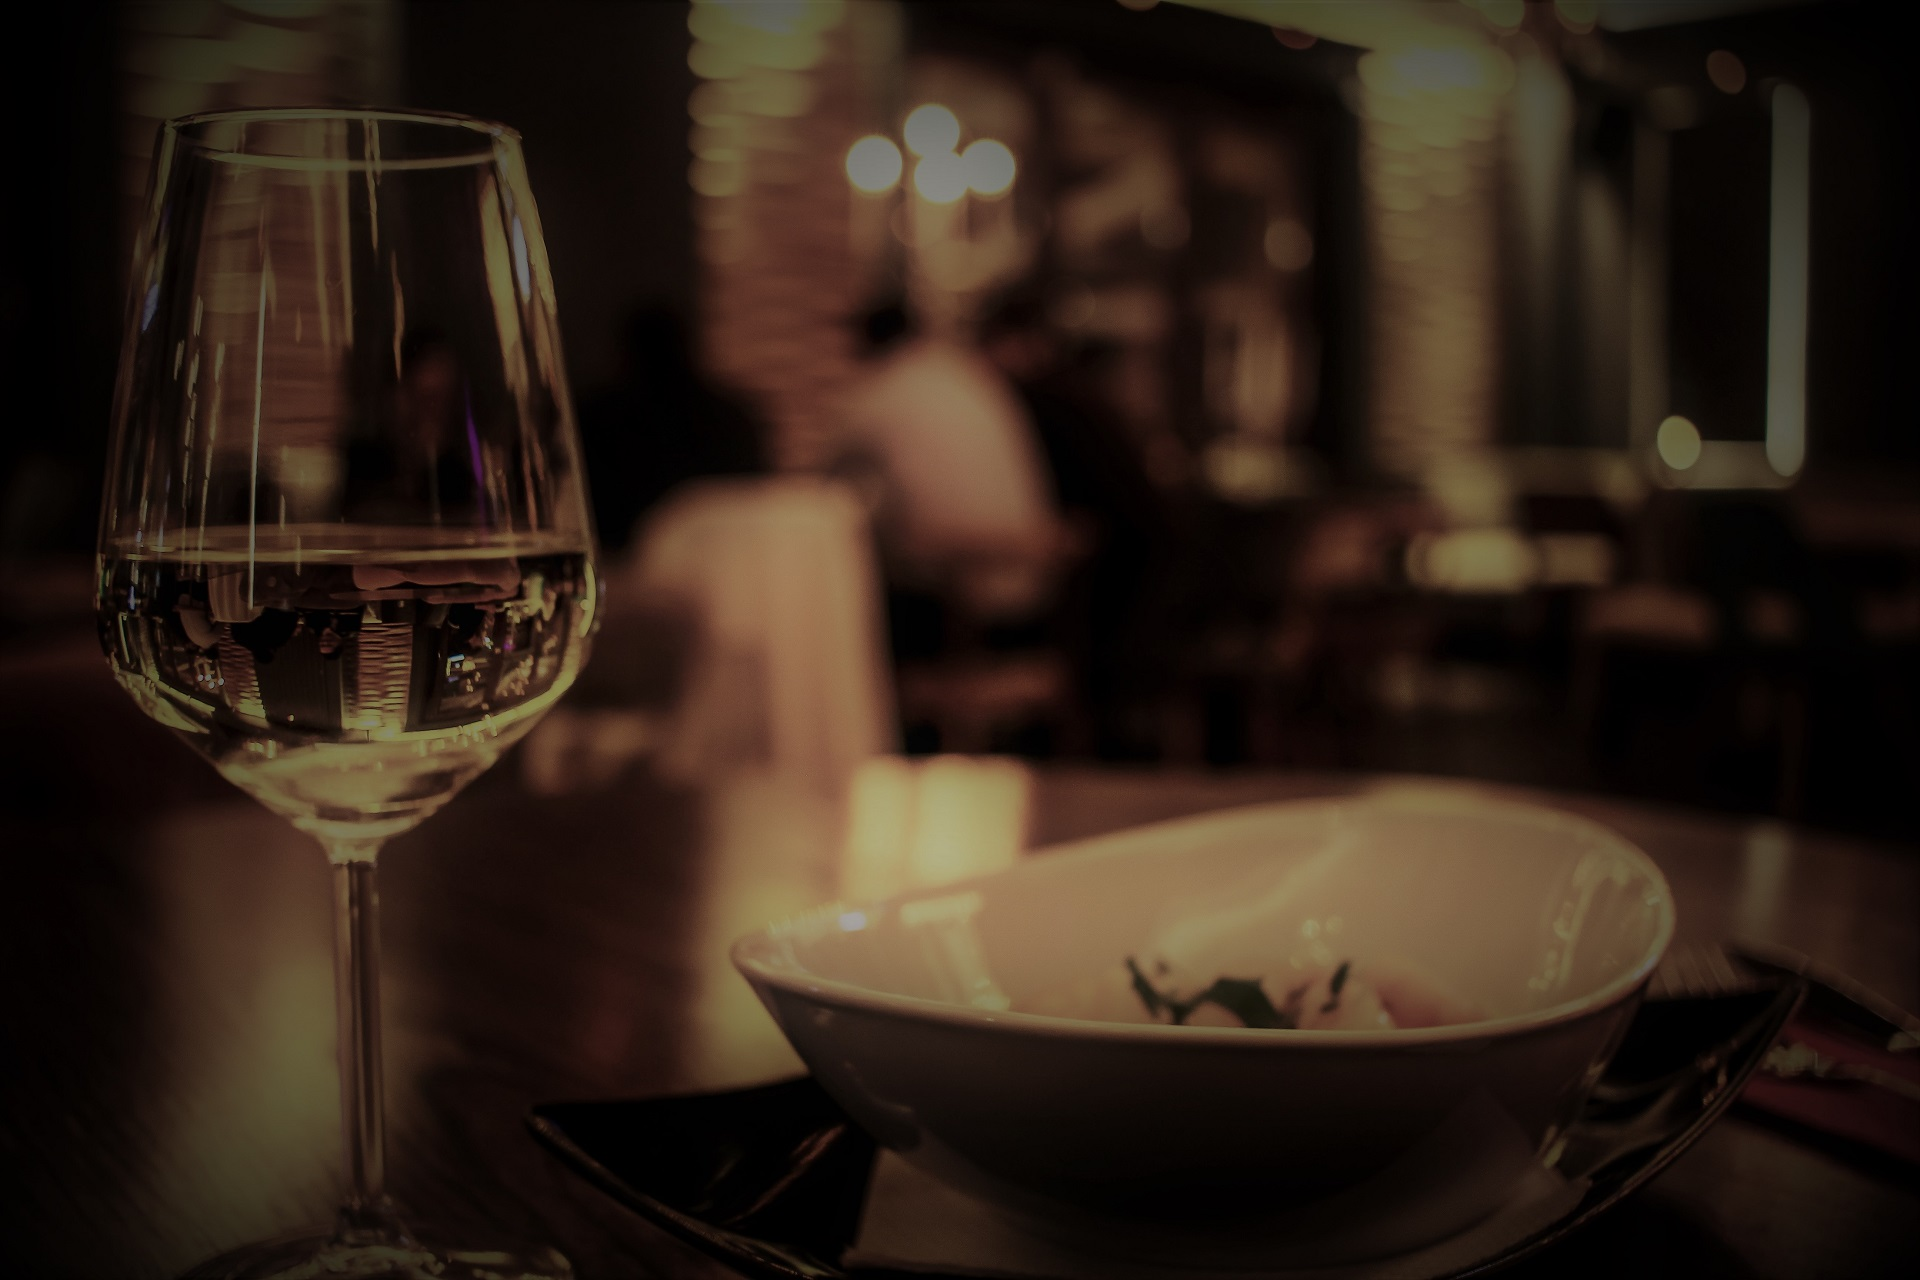
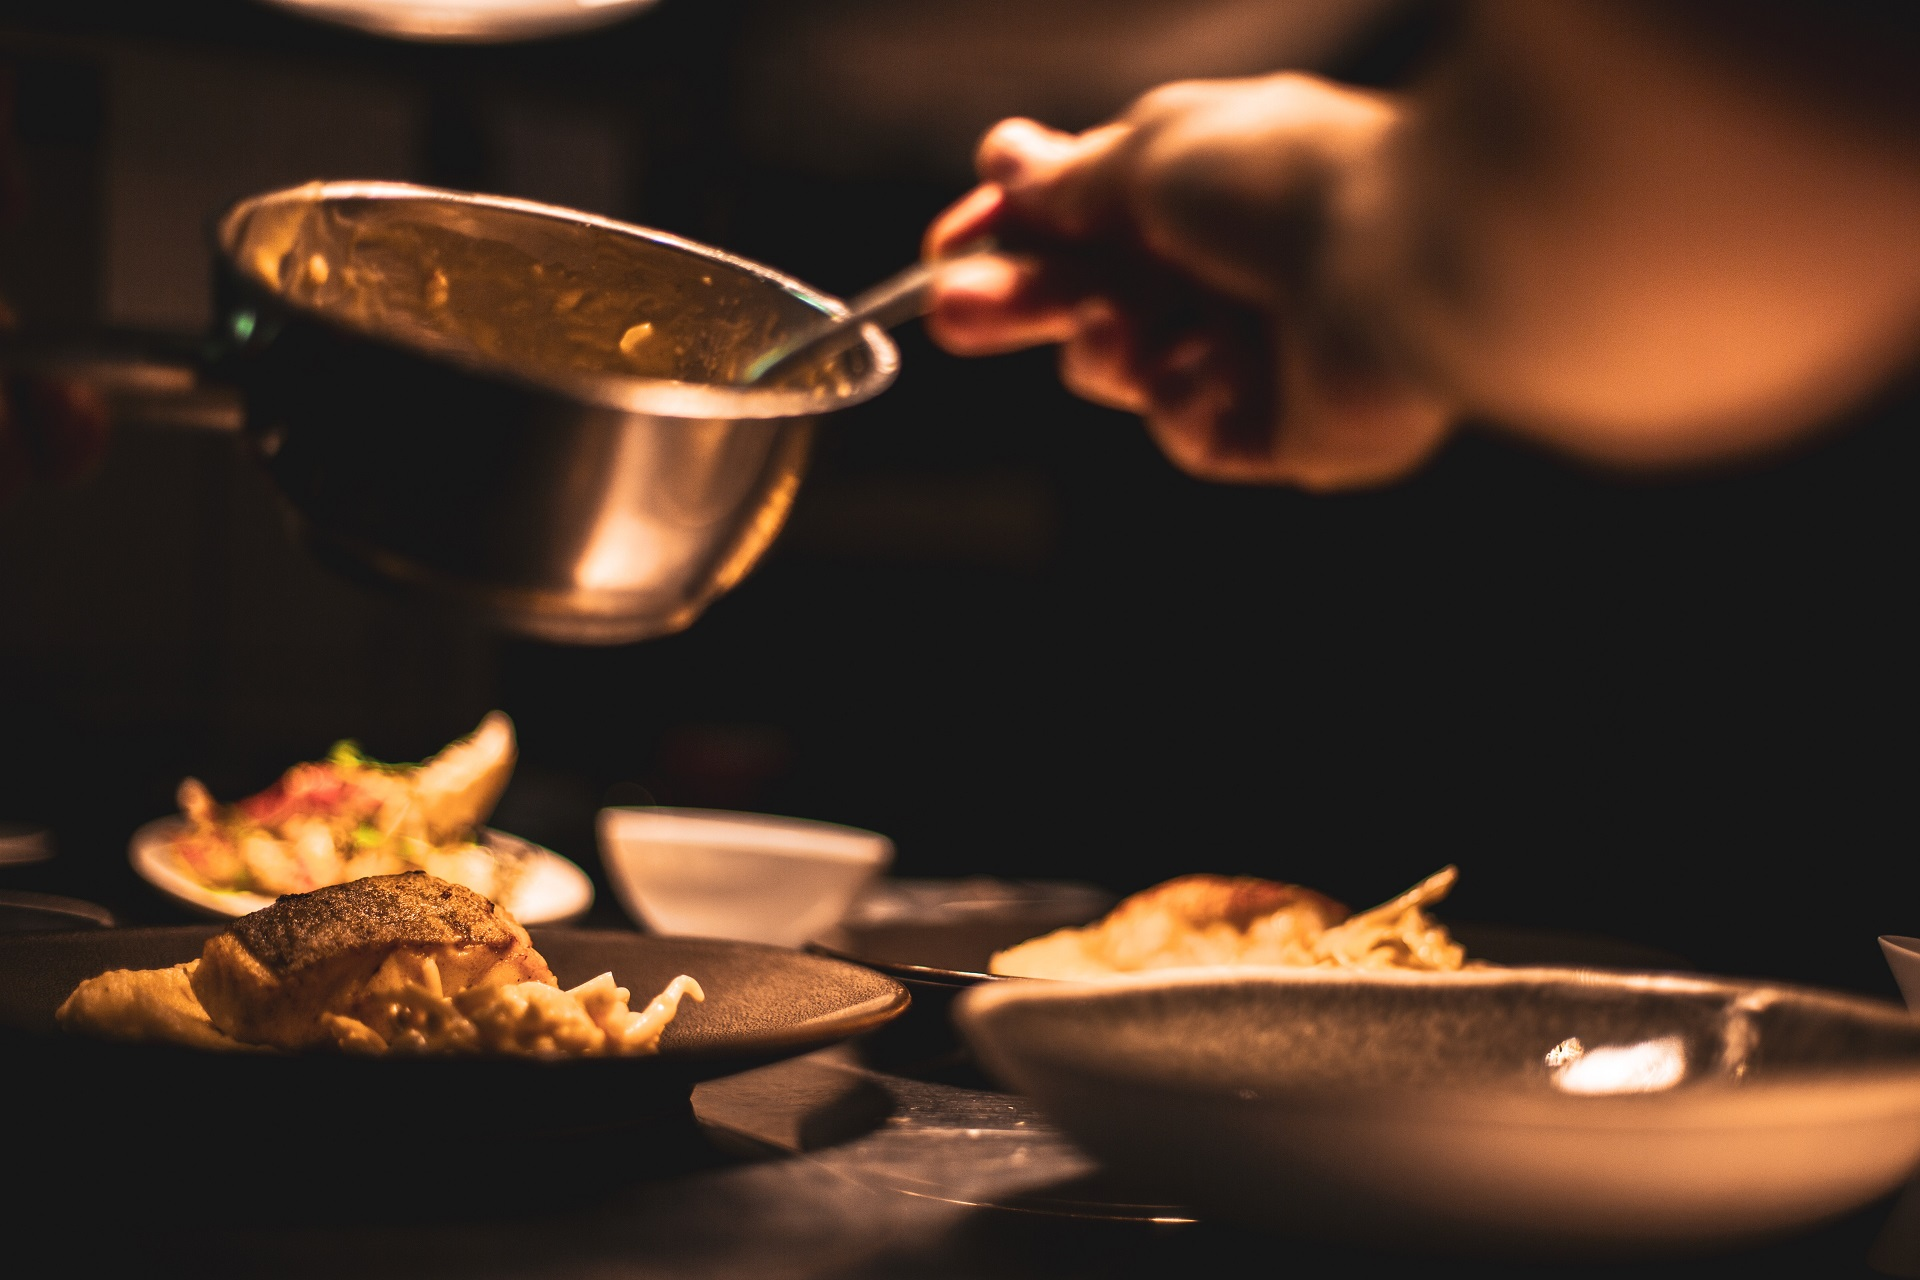
Added backgrounds

diff --git a/src/assets/css/style.css b/src/assets/css/style.css
@@ -157,8 +157,14 @@ p {
 
 #about {
     background-image: url('/src/assets/img/bg-about.jpg');
-    background-position: center;
+    background-position: bottom;
     border-top: .05rem solid var(--accent-color-6);
+    height: 60vh;
+}
+
+#booking {
+    background-image: url('/src/assets/img/bg-booking.jpg');
+    background-position: center;
     height: 60vh;
 }
 
